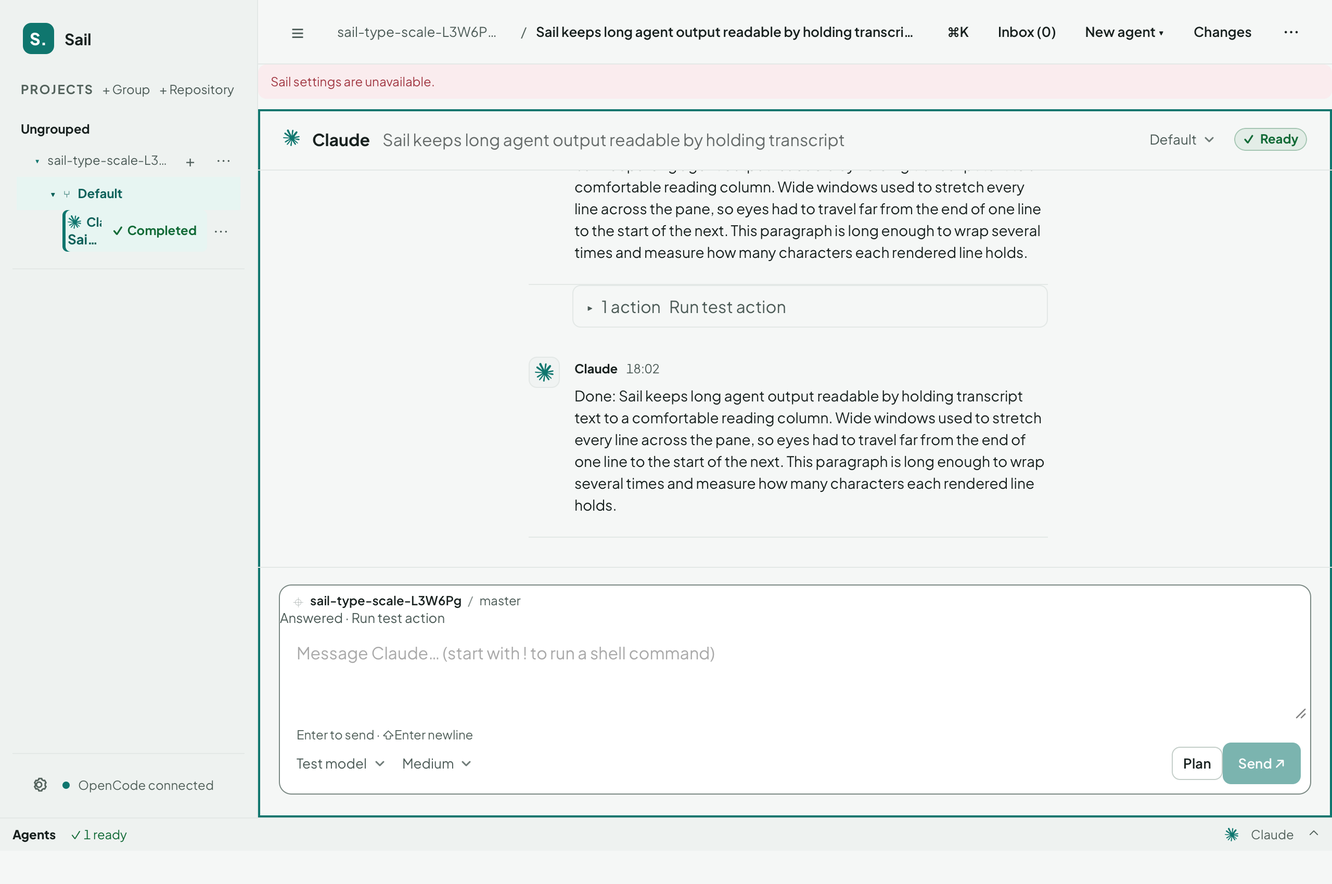
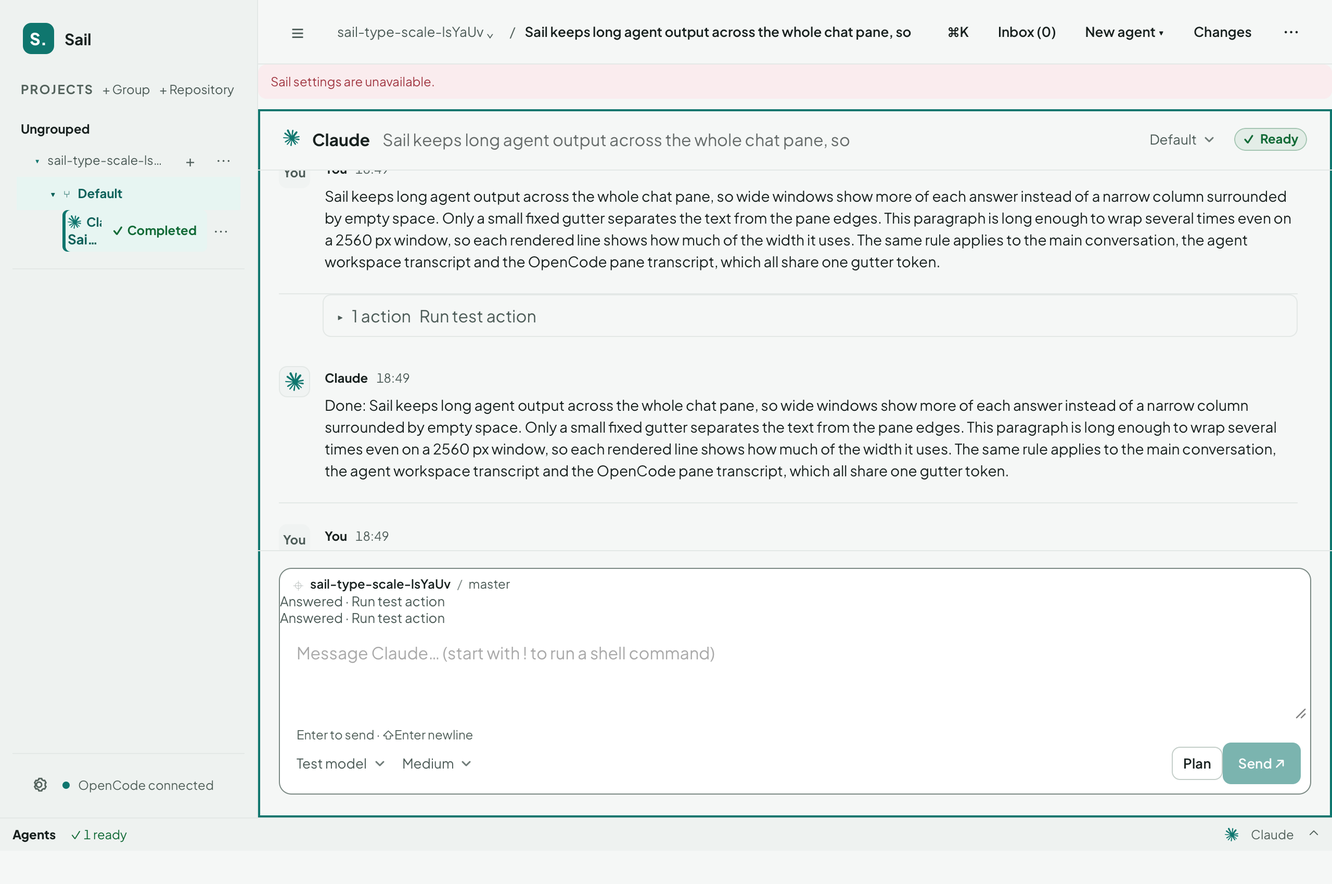
fix(ui): use full width for chat text (#419)

diff --git a/test/e2e/type-scale.spec.ts b/test/e2e/type-scale.spec.ts
@@ -19,10 +19,12 @@ declare global {
 
 const axeSource = readFileSync(resolve('node_modules/axe-core/axe.min.js'), 'utf8');
 const prose =
-  'Sail keeps long agent output readable by holding transcript text to a comfortable reading ' +
-  'column. Wide windows used to stretch every line across the pane, so eyes had to travel far ' +
-  'from the end of one line to the start of the next. This paragraph is long enough to wrap ' +
-  'several times and measure how many characters each rendered line holds.';
+  'Sail keeps long agent output across the whole chat pane, so wide windows show more of each ' +
+  'answer instead of a narrow column surrounded by empty space. Only a small fixed gutter ' +
+  'separates the text from the pane edges. This paragraph is long enough to wrap several ' +
+  'times even on a 2560 px window, so each rendered line shows how much of the width it uses. ' +
+  'The same rule applies to the main conversation, the agent workspace transcript and the ' +
+  'OpenCode pane transcript, which all share one gutter token.';
 
 async function capture(name: string) {
   const output = process.env.SAIL_VISUAL_AUDIT_DIR;
@@ -31,11 +33,22 @@ async function capture(name: string) {
   await browser.saveScreenshot(join(output, `${name}.png`));
 }
 
-/** Returns the longest rendered line, in characters, of each matching element. */
-function longestLines(selector: string) {
+type Span = { chars: number; gutters: number[]; rightGap: number; contentWidth: number };
+
+/**
+ * Returns, for each matching element, its longest rendered line in characters,
+ * its transcript container's horizontal padding, and the gap between the
+ * element's right edge and the container's content box.
+ */
+function textSpans(selector: string) {
   return browser.execute((target) => {
     const range = document.createRange();
-    return [...document.querySelectorAll<HTMLElement>(target)].map((element) => {
+    return [...document.querySelectorAll<HTMLElement>(target)].map((element): Span => {
+      const container = element.closest<HTMLElement>('.conversation, .agent-conversation');
+      if (!container) throw new Error(`No transcript container for ${target}`);
+      const style = getComputedStyle(container);
+      const left = container.getBoundingClientRect().left + container.clientLeft;
+      const contentRight = left + container.clientWidth - Number.parseFloat(style.paddingRight);
       const lines = new Map<number, number>();
       const walker = document.createTreeWalker(element, NodeFilter.SHOW_TEXT);
       for (let text = walker.nextNode(); text; text = walker.nextNode()) {
@@ -49,9 +62,26 @@ function longestLines(selector: string) {
           lines.set(line, (lines.get(line) ?? 0) + 1);
         }
       }
-      return Math.max(0, ...lines.values());
+      return {
+        chars: Math.max(0, ...lines.values()),
+        gutters: [style.paddingLeft, style.paddingRight].map(Number.parseFloat),
+        rightGap: contentRight - element.getBoundingClientRect().right,
+        contentWidth: contentRight - left - Number.parseFloat(style.paddingLeft),
+      };
     });
   }, selector);
+}
+
+/** Asserts that transcript text fills its pane up to the shared 20 px gutter. */
+function expectFullWidth(spans: Span[]) {
+  expect(spans.length).toBeGreaterThan(0);
+  for (const span of spans) {
+    expect(span.gutters).toEqual([20, 20]);
+    expect(Math.abs(span.rightGap)).toBeLessThanOrEqual(1);
+  }
+  const widest = spans.reduce((best, span) => (span.chars > best.chars ? span : best));
+  // 14 px body text averages about 7 px per character; 10 px leaves room for wrapping.
+  expect(widest.chars).toBeGreaterThan(widest.contentWidth / 10);
 }
 
 /** Lists visible text rendered below 12 px, plus horizontal document overflow. */
@@ -90,7 +120,7 @@ async function contrastViolations() {
   });
 }
 
-describe('type scale and reading column', () => {
+describe('type scale and full-width transcript', () => {
   const repository = mkdtempSync(join(tmpdir(), 'sail-type-scale-'));
 
   before(async () => {
@@ -115,7 +145,7 @@ describe('type scale and reading column', () => {
     rmSync(repository, { recursive: true, force: true });
   });
 
-  it('keeps main transcript lines at 80 characters or fewer at 1280 px', async () => {
+  it('fills the main transcript width at 1280 px', async () => {
     await browser.execute((text) => {
       const conversation = document.querySelector('.chat-area .conversation');
       if (!conversation) throw new Error('No main conversation');
@@ -125,13 +155,13 @@ describe('type scale and reading column', () => {
       message.querySelector('p')!.textContent = text;
       conversation.append(message);
     }, prose);
-    const [main] = await longestLines('.measure-probe .message-body p');
+    const main = await textSpans('.measure-probe .message-body p');
     await browser.execute(() => document.querySelector('.measure-probe')?.remove());
-    expect(main).toBeGreaterThan(55);
-    expect(main).toBeLessThanOrEqual(80);
+    expectFullWidth(main);
+    expect(main[0].chars).toBeGreaterThan(80);
   });
 
-  it('keeps agent transcript lines at 80 characters or fewer at 1280 px', async () => {
+  it('fills the agent transcript width at 1280 px', async () => {
     await $('.agent-launches button').click();
     await expect($('.agent-header')).toHaveText(expect.stringContaining('Ready'));
     await $('.agent-composer textarea').setValue(prose);
@@ -140,10 +170,10 @@ describe('type scale and reading column', () => {
     await $('.permission-card .permission-link').click();
     await $('.permission-card .permission-actions button').click();
     await expect($('.agent-conversation')).toHaveText(expect.stringContaining('Done: Sail keeps'));
-    const lines = await longestLines('.agent-conversation .message-body :is(p, .markdown)');
-    expect(lines.length).toBeGreaterThan(1);
-    for (const line of lines) expect(line).toBeLessThanOrEqual(80);
-    expect(Math.max(...lines)).toBeGreaterThan(55);
+    const spans = await textSpans('.agent-conversation .message-body :is(p, .markdown)');
+    expect(spans.length).toBeGreaterThan(1);
+    expectFullWidth(spans);
+    expect(Math.max(...spans.map((span) => span.chars))).toBeGreaterThan(80);
     await capture('desktop-type-scale-light');
   });
 
@@ -171,6 +201,22 @@ describe('type scale and reading column', () => {
     );
     expect(sizes).toEqual(['20px', '16px', '14px', '14px']);
   });
+
+  for (const theme of ['light', 'dark'] as const)
+    for (const [width, height] of [
+      [1920, 1200],
+      [2560, 1440],
+    ] as const)
+      it(`fills the agent transcript width in ${theme} at ${width} px`, async () => {
+        await browser.setWindowSize(width, height);
+        await browser.execute((value) => {
+          document.documentElement.dataset.suiTheme = value;
+        }, theme);
+        await browser.pause(300);
+        expect(await browser.execute(() => innerWidth)).toBe(width);
+        expectFullWidth(await textSpans('.agent-conversation .message-body :is(p, .markdown)'));
+        await capture(`${width}x${height}-chat-width-${theme}`);
+      });
 
   for (const theme of ['light', 'dark'] as const)
     for (const [width, height] of [

diff --git a/test/css-tokens.test.ts b/test/css-tokens.test.ts
@@ -400,20 +400,27 @@ for (const name of ['light', 'dark'] as const) {
   });
 }
 
-void test('all three transcript renderers share the reading column gutter', () => {
+void test('all three transcript renderers fill the width with one fixed gutter', () => {
+  const style = readFileSync(join(root, 'src/style.css'), 'utf8');
+  assert.match(style, /\n {2}--transcript-gutter: 20px;\n/);
   const containers: [string, RegExp][] = [
-    ['src/style.css', /\n\.conversation \{[^}]*padding: 28px var\(--transcript-gutter\);/],
-    [
-      'src/AgentWorkspace.svelte',
-      /\n {2}\.agent-conversation \{[^}]*padding-inline: var\(--transcript-gutter\);/,
-    ],
-    [
-      'src/OpenCodePane.svelte',
-      /\n {2}\.opencode-pane \.agent-conversation \{[^}]*padding-inline: var\(--transcript-gutter\);/,
-    ],
+    ['src/style.css', /\n\.conversation \{([^}]*)\}/],
+    ['src/AgentWorkspace.svelte', /\n {2}\.agent-conversation \{([^}]*)\}/],
+    ['src/OpenCodePane.svelte', /\n {2}\.opencode-pane \.agent-conversation \{([^}]*)\}/],
   ];
-  for (const [file, rule] of containers)
-    assert.match(readFileSync(join(root, file), 'utf8'), rule, file);
+  for (const [file, rule] of containers) {
+    const body = rule.exec(readFileSync(join(root, file), 'utf8'))?.[1];
+    assert.ok(body, file);
+    assert.match(
+      body,
+      file === 'src/style.css'
+        ? /padding: 28px var\(--transcript-gutter\);/
+        : /padding-inline: var\(--transcript-gutter\);/,
+      file,
+    );
+    assert.doesNotMatch(body, /max-width|margin[^:]*:[^;]*auto|--transcript-measure/, file);
+  }
+  for (const { file, text } of sources) assert.doesNotMatch(text, /--transcript-measure/, file);
   assert.doesNotMatch(
     readFileSync(join(root, 'src/style.css'), 'utf8'),
     /\.chat-area > (?:\.chat-body > )?\.conversation[^{]*\{[^}]*padding-inline/,

diff --git a/src/style.css b/src/style.css
@@ -21,8 +21,7 @@
   --radius-6: 6px;
   --radius-8: 8px;
   --radius-12: 12px;
-  --transcript-measure: 512px;
-  --transcript-gutter: max(20px, calc((100% - var(--transcript-measure)) / 2));
+  --transcript-gutter: 20px;
   --shell-sidebar: #eef2f0;
   --shell-divider: #e3e8e6;
   --shell-muted: #53625c;

diff --git a/docs/visual-audit/README.md b/docs/visual-audit/README.md
@@ -4,19 +4,19 @@ Run `SAIL_VISUAL_AUDIT_DIR=/tmp/sail-visual-audit mise exec -- npm run test:e2e`
 
 ## Captured views
 
-| Area               | Screenshots                                                                                                                                                                                                                                                                                                                                                                                                                                                                                                                |
-| ------------------ | -------------------------------------------------------------------------------------------------------------------------------------------------------------------------------------------------------------------------------------------------------------------------------------------------------------------------------------------------------------------------------------------------------------------------------------------------------------------------------------------------------------------------- |
-| Project navigation | [Desktop sessions](screenshots/1280x850-sessions.png), [mobile sessions](screenshots/320x500-sessions.png), [group form](screenshots/desktop-group-form.png), [group menu](screenshots/desktop-group-menu.png)                                                                                                                                                                                                                                                                                                             |
-| Chat and worktrees | [Desktop chat](screenshots/1280x850-chat.png), [mobile chat](screenshots/320x500-chat.png), [worktree dialog](screenshots/1280x850-worktree-dialog.png), [small window dialog](screenshots/320x500-worktree-dialog-bottom.png), [worktree menu](screenshots/desktop-worktree-menu.png)                                                                                                                                                                                                                                     |
-| Settings window    | [General](screenshots/desktop-general-settings.png), [OpenCode](screenshots/desktop-opencode-settings.png), [repository diagnostics](screenshots/desktop-repository-diagnostics.png), [recovery controls](screenshots/desktop-repository-diagnostics-bottom.png), [agents](screenshots/desktop-agent-settings.png), [compact general](screenshots/compact-general-settings.png), [compact OpenCode](screenshots/mobile-opencode-settings.png), [compact diagnostics](screenshots/mobile-repository-diagnostics-bottom.png) |
-| ACP agent          | [New worktree thread](screenshots/desktop-worktree-agent-empty.png), [permission](screenshots/desktop-agent-permission.png), [conversation](screenshots/desktop-agent-conversation.png), [file changes](screenshots/desktop-agent-changes.png), [dark theme](screenshots/desktop-dark-changes.png), [mobile details](screenshots/mobile-dark-details.png)                                                                                                                                                                  |
-| Transcript         | [Grouped tools with avatars and times](screenshots/desktop-transcript-light.png), [permission card, light](screenshots/desktop-permission-light.png), [permission card, dark](screenshots/desktop-permission-dark.png)                                                                                                                                                                                                                                                                                                     |
-| Type and theme     | [Reading column, light](screenshots/1280x850-type-scale-light.png), [dark](screenshots/1280x850-type-scale-dark.png), [mobile light](screenshots/390x600-type-scale-light.png), [mobile dark](screenshots/390x600-type-scale-dark.png), [System theme following a light OS](screenshots/desktop-system-theme-light.png), [and a dark OS](screenshots/desktop-system-theme-dark.png), [System in settings](screenshots/settings-theme-system.png), [Ship run launch time](screenshots/ship-run-timestamp.png)               |
-| Split agent panes  | [Two panes](screenshots/desktop-agent-two-panes.png), [three panes](screenshots/desktop-agent-three-panes.png), [restored panes](screenshots/desktop-agent-restored-panes.png)                                                                                                                                                                                                                                                                                                                                             |
-| Subagents          | [Result card and live cards](screenshots/desktop-subagent-results.png), [OpenCode running and finished children](screenshots/desktop-opencode-subagents.png)                                                                                                                                                                                                                                                                                                                                                               |
-| Command palette    | [Search results](screenshots/desktop-command-palette-results.png), [empty results](screenshots/desktop-command-palette-empty.png)                                                                                                                                                                                                                                                                                                                                                                                          |
-| Ship runs          | [Grouped list](screenshots/ship-list-grouped.png), [grouped list, dark](screenshots/ship-list-grouped-dark.png), [drill-in detail](screenshots/ship-detail-drill-in.png), [split view](screenshots/ship-split-detail.png), [split view, dark](screenshots/ship-split-detail-dark.png)                                                                                                                                                                                                                                      |
-| Crowded data       | [Long desktop labels](screenshots/fuzz-14-1280-threads.png), [long mobile labels](screenshots/fuzz-15-320-threads.png)                                                                                                                                                                                                                                                                                                                                                                                                     |
+| Area               | Screenshots                                                                                                                                                                                                                                                                                                                                                                                                                                                                                                                                                                                                                                                                                                                                                   |
+| ------------------ | ------------------------------------------------------------------------------------------------------------------------------------------------------------------------------------------------------------------------------------------------------------------------------------------------------------------------------------------------------------------------------------------------------------------------------------------------------------------------------------------------------------------------------------------------------------------------------------------------------------------------------------------------------------------------------------------------------------------------------------------------------------- |
+| Project navigation | [Desktop sessions](screenshots/1280x850-sessions.png), [mobile sessions](screenshots/320x500-sessions.png), [group form](screenshots/desktop-group-form.png), [group menu](screenshots/desktop-group-menu.png)                                                                                                                                                                                                                                                                                                                                                                                                                                                                                                                                                |
+| Chat and worktrees | [Desktop chat](screenshots/1280x850-chat.png), [mobile chat](screenshots/320x500-chat.png), [worktree dialog](screenshots/1280x850-worktree-dialog.png), [small window dialog](screenshots/320x500-worktree-dialog-bottom.png), [worktree menu](screenshots/desktop-worktree-menu.png)                                                                                                                                                                                                                                                                                                                                                                                                                                                                        |
+| Settings window    | [General](screenshots/desktop-general-settings.png), [OpenCode](screenshots/desktop-opencode-settings.png), [repository diagnostics](screenshots/desktop-repository-diagnostics.png), [recovery controls](screenshots/desktop-repository-diagnostics-bottom.png), [agents](screenshots/desktop-agent-settings.png), [compact general](screenshots/compact-general-settings.png), [compact OpenCode](screenshots/mobile-opencode-settings.png), [compact diagnostics](screenshots/mobile-repository-diagnostics-bottom.png)                                                                                                                                                                                                                                    |
+| ACP agent          | [New worktree thread](screenshots/desktop-worktree-agent-empty.png), [permission](screenshots/desktop-agent-permission.png), [conversation](screenshots/desktop-agent-conversation.png), [file changes](screenshots/desktop-agent-changes.png), [dark theme](screenshots/desktop-dark-changes.png), [mobile details](screenshots/mobile-dark-details.png)                                                                                                                                                                                                                                                                                                                                                                                                     |
+| Transcript         | [Grouped tools with avatars and times](screenshots/desktop-transcript-light.png), [permission card, light](screenshots/desktop-permission-light.png), [permission card, dark](screenshots/desktop-permission-dark.png)                                                                                                                                                                                                                                                                                                                                                                                                                                                                                                                                        |
+| Type and theme     | [Full-width chat, light](screenshots/1280x850-type-scale-light.png), [dark](screenshots/1280x850-type-scale-dark.png), [2560 px light](screenshots/2560x1130-chat-width-light.png), [2560 px dark](screenshots/2560x1130-chat-width-dark.png), [1920 px light](screenshots/1920x1130-chat-width-light.png), [1920 px dark](screenshots/1920x1130-chat-width-dark.png), [mobile light](screenshots/390x600-type-scale-light.png), [mobile dark](screenshots/390x600-type-scale-dark.png), [System theme following a light OS](screenshots/desktop-system-theme-light.png), [and a dark OS](screenshots/desktop-system-theme-dark.png), [System in settings](screenshots/settings-theme-system.png), [Ship run launch time](screenshots/ship-run-timestamp.png) |
+| Split agent panes  | [Two panes](screenshots/desktop-agent-two-panes.png), [three panes](screenshots/desktop-agent-three-panes.png), [restored panes](screenshots/desktop-agent-restored-panes.png)                                                                                                                                                                                                                                                                                                                                                                                                                                                                                                                                                                                |
+| Subagents          | [Result card and live cards](screenshots/desktop-subagent-results.png), [OpenCode running and finished children](screenshots/desktop-opencode-subagents.png)                                                                                                                                                                                                                                                                                                                                                                                                                                                                                                                                                                                                  |
+| Command palette    | [Search results](screenshots/desktop-command-palette-results.png), [empty results](screenshots/desktop-command-palette-empty.png)                                                                                                                                                                                                                                                                                                                                                                                                                                                                                                                                                                                                                             |
+| Ship runs          | [Grouped list](screenshots/ship-list-grouped.png), [grouped list, dark](screenshots/ship-list-grouped-dark.png), [drill-in detail](screenshots/ship-detail-drill-in.png), [split view](screenshots/ship-split-detail.png), [split view, dark](screenshots/ship-split-detail-dark.png)                                                                                                                                                                                                                                                                                                                                                                                                                                                                         |
+| Crowded data       | [Long desktop labels](screenshots/fuzz-14-1280-threads.png), [long mobile labels](screenshots/fuzz-15-320-threads.png)                                                                                                                                                                                                                                                                                                                                                                                                                                                                                                                                                                                                                                        |
 
 The tests check viewport overflow, dialog actions, composer access, settings-window access, sidebar reachability, and the agent title/status boundary. Review of the captures found and fixed the narrow window composer, mobile settings placement, worktree dialog overflow, sidebar scrolling, and long agent title overlap.
 

diff --git a/docs/release-notes.md b/docs/release-notes.md
@@ -6,11 +6,11 @@ OpenCode v2.0.24 is a separate prerequisite; it is not bundled. Install the test
 
 There is no automatic updater. To update, download the next package for your platform and install it over the previous version after quitting the app. Verify the new manifest and run the first-project checks again.
 
-## Text size, reading width and theme
+## Text size, chat width and theme
 
 - **Theme default changed.** Settings > General > Appearance now offers System, Light and Dark. System follows the operating system appearance and switches live when it changes. New profiles start on System; a stored Light or Dark choice is kept.
 - No interface text is smaller than 12 px. Sidebar thread titles are 13 px in the foreground color, and status badges, labels, timestamps and counts that were 9 to 11 px are now 12 px.
-- Transcript text sits in a centered column of about 72 characters with line height 1.5 in every thread view. Code blocks and tables scroll horizontally inside it.
+- Chat text uses the full width of the window again, with a 20 px margin on each side, in every thread view. Lines keep line height 1.5, and code blocks and tables scroll horizontally inside the chat.
 - Markdown headings in the transcript have their own sizes.
 - Durations, counts and timestamps use tabular digits, so numbers line up. The Ship run launch time no longer wraps.
 
